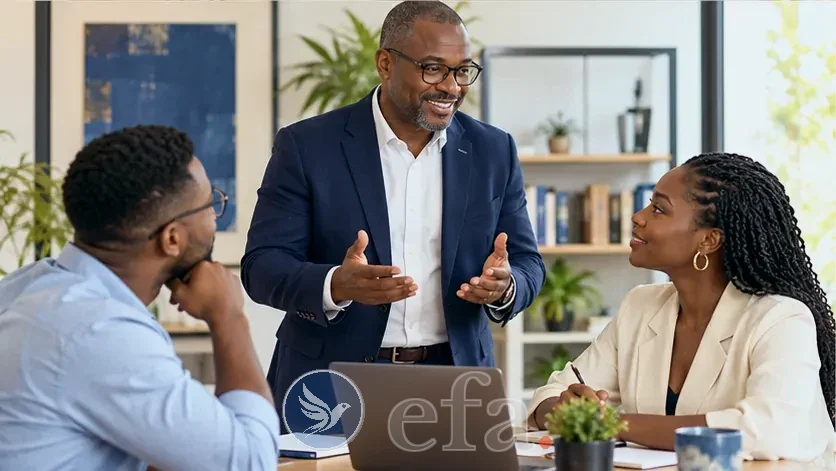
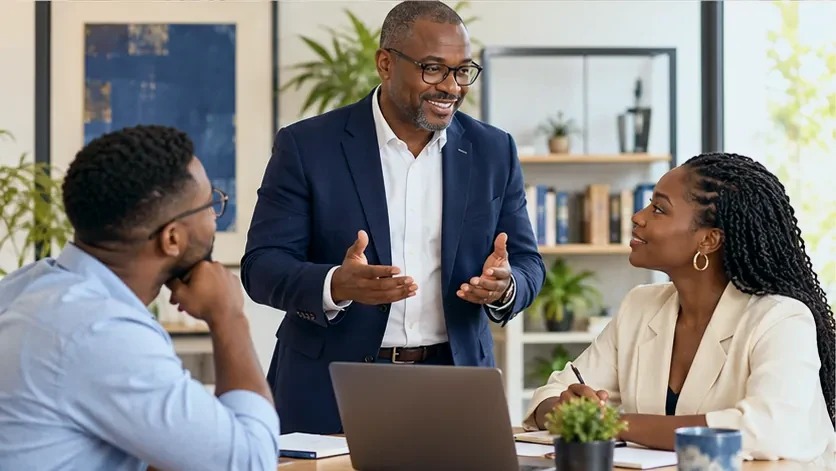
Accueil mobile : sous-titre sans débordement ; pas de filigrane sur les images de fond d'en-tête (12 restaurées, liste scripts/filigrane-exclus.txt)
Claude-Session: https://claude.ai/code/session_01BsmSgHmV3XpxFWobRvPHBo

Changed region(s): [[0.4665, 0.7728, 0.6842, 0.9809], [0.311, 0.7728, 0.4354, 0.9512]]

diff --git a/clone/_index.html b/clone/_index.html
@@ -21,7 +21,7 @@
       <div class="a-hero-image" role="img" aria-label="Une femme réfléchit à ses projets devant un carnet, avec Abidjan en arrière-plan"></div>
       <div class="a-hero-shade" aria-hidden="true"></div>
       
-      <div class="a-hero-inner"><style>.a-hero-signe{font:italic 400 clamp(16px,1.5vw,20px)/1.4 "Libre Baskerville",Georgia,serif;color:#C9D1DE}.a-hero-sous{font-style:normal!important;max-width:760px}.a-hero-sous span{white-space:nowrap}</style>
+      <div class="a-hero-inner"><style>.a-hero-signe{font:italic 400 clamp(16px,1.5vw,20px)/1.4 "Libre Baskerville",Georgia,serif;color:#C9D1DE}.a-hero-sous{font-style:normal!important;max-width:760px}.a-hero-sous span{white-space:nowrap}@media(max-width:700px){.a-hero-sous{font-size:min(5.4vw,30px)!important}}</style>
         <p class="a-eyebrow">L’ARGENT S’APPREND · UNE EXPÉRIENCE EFA</p>
         <h1 id="hero-title" class="a-hero-pourvous">C’est fait pour vous.</h1>
         <p class="a-hero-sous"><span>Votre bilan financier.</span> <span>Votre idée de business.</span> <span>Vos premiers investissements.</span></p>

diff --git a/index.html b/index.html
@@ -41,7 +41,7 @@
       <div class="a-hero-image" role="img" aria-label="Une femme réfléchit à ses projets devant un carnet, avec Abidjan en arrière-plan"></div>
       <div class="a-hero-shade" aria-hidden="true"></div>
       
-      <div class="a-hero-inner"><style>.a-hero-signe{font:italic 400 clamp(16px,1.5vw,20px)/1.4 "Libre Baskerville",Georgia,serif;color:#C9D1DE}.a-hero-sous{font-style:normal!important;max-width:760px}.a-hero-sous span{white-space:nowrap}</style>
+      <div class="a-hero-inner"><style>.a-hero-signe{font:italic 400 clamp(16px,1.5vw,20px)/1.4 "Libre Baskerville",Georgia,serif;color:#C9D1DE}.a-hero-sous{font-style:normal!important;max-width:760px}.a-hero-sous span{white-space:nowrap}@media(max-width:700px){.a-hero-sous{font-size:min(5.4vw,30px)!important}}</style>
         <p class="a-eyebrow">L’ARGENT S’APPREND · UNE EXPÉRIENCE EFA</p>
         <h1 id="hero-title" class="a-hero-pourvous">C’est fait pour vous.</h1>
         <p class="a-hero-sous"><span>Votre bilan financier.</span> <span>Votre idée de business.</span> <span>Vos premiers investissements.</span></p>

diff --git a/scripts/filigrane.py b/scripts/filigrane.py
@@ -14,6 +14,7 @@ DOSSIERS = ['clone/assets', 'illus', 'accueil']
 EXCLU = re.compile(r'(logo|oiseau|efa-mark|portrait|temoin|avatar|icon|favicon|apple-touch|og-|og_|^ely\.|^por-|qr|sticker|autocollant|signature|visage|profil|globe)', re.I)
 LB = 'scripts/fonts/LibreBaskerville-700.ttf'
 fait = json.load(open(FAIT)) if os.path.exists(FAIT) else {}
+SANS = {l.strip() for l in open('scripts/filigrane-exclus.txt') if l.strip() and not l.startswith('#')} if os.path.exists('scripts/filigrane-exclus.txt') else set()
 _o = Image.open('clone/assets/efa-oiseau.png').convert('RGBA')
 BLANC = (255, 255, 255)
 
@@ -61,7 +62,7 @@ if __name__ == '__main__':
     cibles = sys.argv[1:] or [f for d in DOSSIERS for f in sorted(glob.glob(d + '/*')) if f.lower().endswith(('.webp', '.jpg', '.jpeg', '.png'))]
     n = 0
     for f in cibles:
-        if EXCLU.search(os.path.basename(f)): continue
+        if EXCLU.search(os.path.basename(f)) or f in SANS: continue
         if f in fait and fait[f] == empreinte(f): continue
         try: w, h = Image.open(f).size
         except Exception: continue
